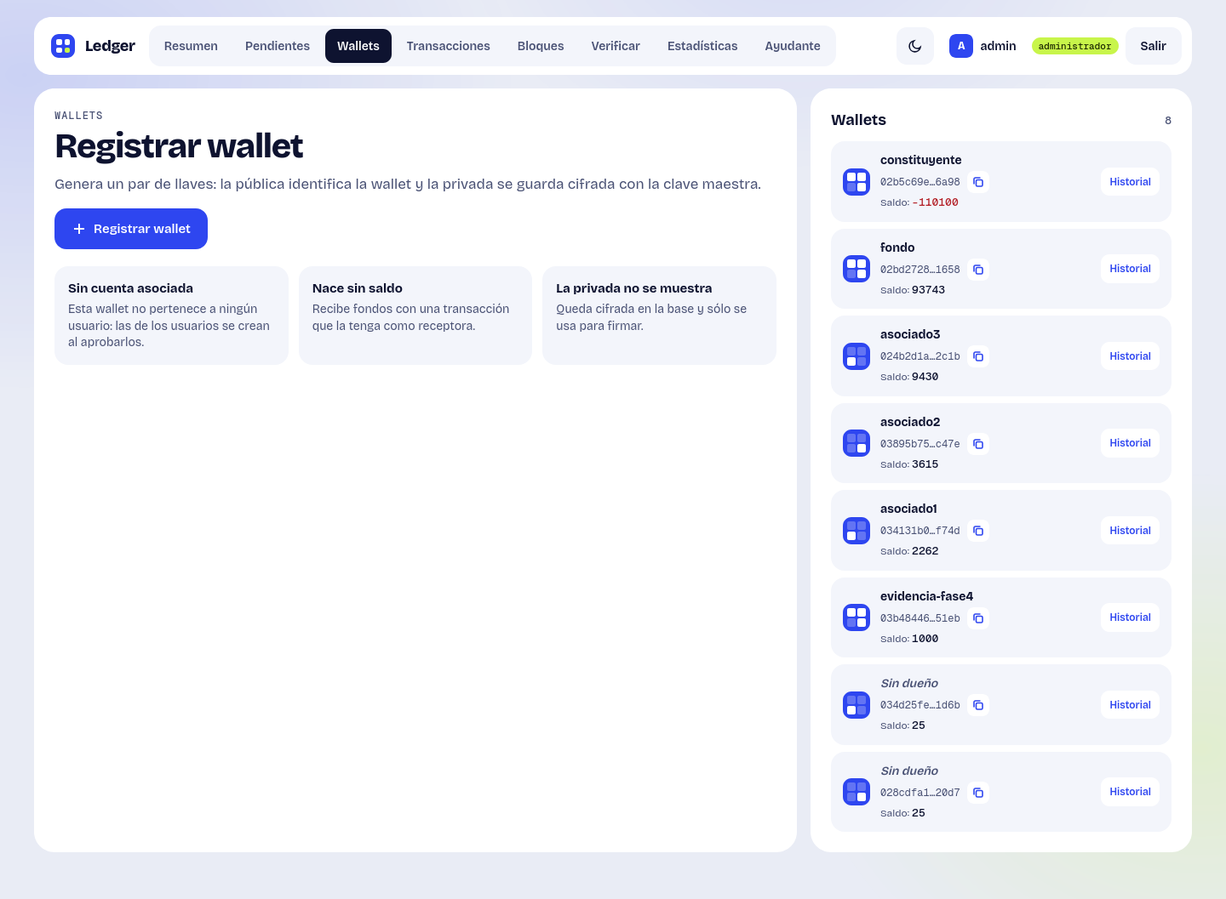
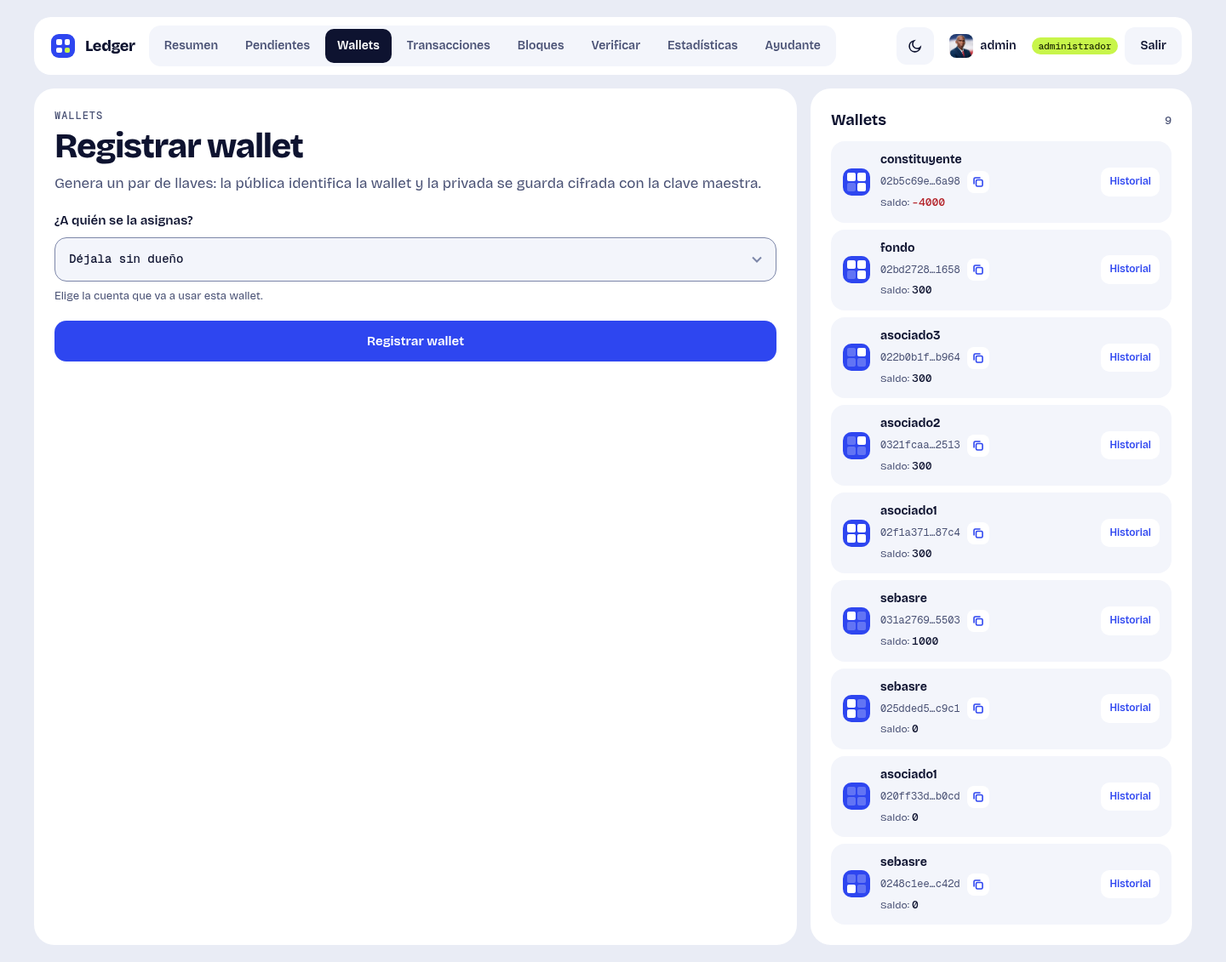
docs: capturas de la auditoría, el registro con dueño y las varias wallets

diff --git a/docs/entrega-final.md b/docs/entrega-final.md
@@ -547,16 +547,16 @@ volumen).
 
 La ruta es relativa a este documento. Las capturas y los textos marcados con «4 de
 noviembre» son anteriores a la wallet con dueño, a la auditoría/sello/reparación y al
-perfil; las marcadas «19 de noviembre» son frescas. En total son 23 capturas: 21 de
+perfil; las marcadas «19 de noviembre» son frescas. En total son 28 capturas: 26 de
 interfaz y 2 de terminal.
 
-> **Nota de alcance sobre las capturas nuevas.** Las capturas 11 y 23 del ayudante ya se
-> regeneraron el 19 de noviembre y muestran respuestas reales en modo guía local. Las
-> demás capturas del 4 de noviembre no muestran el panel de auditoría, el sello de
-> vigilancia ni las reparaciones, el perfil, ni la elección entre varias wallets. Esa
-> evidencia es documental y de pruebas: la auditoría y la reparación están cubiertas por
-> el recorrido y por las pruebas, y el inventario conserva las capturas históricas como
-> evidencia de la interfaz. No se deben presentar como si mostraran esas funciones.
+> **Nota de alcance sobre las capturas nuevas.** Las capturas 03, 06, 11 y 23 se
+> regeneraron el 19 de noviembre y las 24 a 28 son nuevas: muestran la asignación de
+> dueño al registrar una wallet, las varias wallets de una cuenta, la auditoría con el
+> sello coincidente y la auditoría detectando un sello no coincidente. Las capturas del
+> 4 de noviembre que siguen —01, 02, 04, 05, 07 a 10 y 12 a 22— no muestran esas
+> funciones: el inventario las conserva como evidencia histórica de la interfaz y no se
+> deben presentar como si mostraran lo agregado después de esa fecha.
 
 ### 5.1 Pruebas y resultados
 
@@ -572,24 +572,24 @@ interfaz y 2 de terminal.
 
 ### 5.2 Capturas de la interfaz
 
-Son 23 capturas: 21 de interfaz y 2 de terminal. Las capturas 11 y 23 son del 19 de
-noviembre de 2026; el resto, del 4 de noviembre. El listado completo con el nombre de
-cada archivo está en [evidencias/capturas/](evidencias/capturas/).
+Son 28 capturas: 26 de interfaz y 2 de terminal (20 y 21). Las capturas 03, 06, 11, 23 y
+24 a 28 son del 19 de noviembre de 2026; el resto, del 4 de noviembre. El listado
+completo con el nombre de cada archivo está en
+[evidencias/capturas/](evidencias/capturas/).
 
 | Archivo | Qué demuestra |
 | --- | --- |
 | [01-ingreso.png](evidencias/capturas/01-ingreso.png) | Pantalla de ingreso con el tema de la aplicación |
 | [02-portada-admin.png](evidencias/capturas/02-portada-admin.png) | Portada del administrador: conteos, cadena, últimas transacciones y panel de wallets con saldos |
-| [03-wallets.png](evidencias/capturas/03-wallets.png) | Gestión de wallets con la clave pública y el botón de copiar |
+| [03-wallets.png](evidencias/capturas/03-wallets.png) | Registro de wallet con el selector «¿A quién se la asignas?» y el panel de wallets con sus saldos (19 de noviembre; REQ-46) |
 | [04-transacciones-rechazo.png](evidencias/capturas/04-transacciones-rechazo.png) | Formulario de transacción con un monto inválido y el motivo del rechazo |
 | [05-bloques.png](evidencias/capturas/05-bloques.png) | Cierre de bloque con el pool en espera |
-| [06-verificar.png](evidencias/capturas/06-verificar.png) | Dictamen de integridad de la cadena (4 de noviembre; no muestra el panel de auditoría, sello ni reparaciones) |
+| [06-verificar.png](evidencias/capturas/06-verificar.png) | Dictamen de cadena válida con el panel de auditoría del estado, el sello de vigilancia «Coincide», cero hallazgos y las reparaciones (19 de noviembre) |
 | [07-pendientes.png](evidencias/capturas/07-pendientes.png) | Cola de aprobación con una cuenta pendiente y su fecha |
 | [08-tablero-comun.png](evidencias/capturas/08-tablero-comun.png) | Tablero del usuario común: saldo y formulario de envío |
 | [09-estadisticas-comun.png](evidencias/capturas/09-estadisticas-comun.png) | Estadísticas propias con la tarjeta «Proyección del próximo mes» |
 | [10-estadisticas-admin.png](evidencias/capturas/10-estadisticas-admin.png) | Estadísticas desde el administrador, con selector de usuario y proyección |
 | [11-asistente.png](evidencias/capturas/11-asistente.png) | Pestaña del ayudante con «Lo que pasa ahora», preguntas sugeridas y una respuesta de la guía local (19 de noviembre) |
-| [23-asistente-conversacion.png](evidencias/capturas/23-asistente-conversacion.png) | Conversación del ayudante con pregunta escrita a mano y respuesta, en modo guía local (19 de noviembre) |
 | [12-tema-oscuro.png](evidencias/capturas/12-tema-oscuro.png) | La misma pantalla de estadísticas en tema oscuro |
 | [13-error-503.png](evidencias/capturas/13-error-503.png) | Página de error cuando la base no responde |
 | [14-flujo-wallet-creada.png](evidencias/capturas/14-flujo-wallet-creada.png) | Wallet recién registrada con identificador y clave pública |
@@ -601,6 +601,12 @@ cada archivo está en [evidencias/capturas/](evidencias/capturas/).
 | [20-consulta-psql.png](evidencias/capturas/20-consulta-psql.png) | Terminal con `psql -f db/consultas.sql`: conteos, saldos y cadena eslabonada |
 | [21-registro-en-bd.png](evidencias/capturas/21-registro-en-bd.png) | `SELECT` de una cuenta registrada con su estado y fecha |
 | [22-mis-contactos.png](evidencias/capturas/22-mis-contactos.png) | Agenda del usuario común con sus contactos y el movimiento de cada uno |
+| [23-asistente-conversacion.png](evidencias/capturas/23-asistente-conversacion.png) | Conversación del ayudante con pregunta escrita a mano y respuesta, en modo guía local (19 de noviembre) |
+| [24-registro-wallet-con-dueno.png](evidencias/capturas/24-registro-wallet-con-dueno.png) | Registro de wallet con una cuenta común elegida en el selector de dueño, antes de enviar el formulario (REQ-46) |
+| [25-wallet-asignada-a-cliente.png](evidencias/capturas/25-wallet-asignada-a-cliente.png) | Confirmación de la wallet registrada a nombre de `asociado1`, con dueño, identificador, clave pública y saldo 0 (REQ-46) |
+| [26-multiwallets-tablero.png](evidencias/capturas/26-multiwallets-tablero.png) | Tablero del usuario común con el selector «Tus wallets» y el botón «Elegir» para operar con una de sus wallets (REQ-47) |
+| [27-multiwallets-perfil.png](evidencias/capturas/27-multiwallets-perfil.png) | Perfil de `asociado1` con las tres wallets de la cuenta listadas junto a sus demás datos (REQ-47) |
+| [28-auditoria-detecta-sello-no-coincide.png](evidencias/capturas/28-auditoria-detecta-sello-no-coincide.png) | Auditoría con la cadena válida pero el sello de vigilancia «No coincide»: hallazgo crítico y las reparaciones «Reagrupar el pool» y «Fijar el sello» (19 de noviembre) |
 
 ### 5.3 Figuras y documentos de soporte
 
@@ -613,7 +619,7 @@ cada archivo está en [evidencias/capturas/](evidencias/capturas/).
 | [informe.md](pentesting/informe.md) / [informe.pdf](pentesting/informe.pdf) | Informe de pentesting con metodología, cuatro hallazgos, CVSS, evidencia y remediación; el PDF tiene 18 páginas e incluye la nota de alcance temporal (1.4) |
 | [matriz-trazabilidad.md](pentesting/matriz-trazabilidad.md) | Trazabilidad entre requerimientos, pruebas funcionales y categorías de OWASP |
 | [triaje-de-herramientas.md](pentesting/triaje-de-herramientas.md) | Triaje de las herramientas del pentest y sus resultados |
-| [evidencias-fase4.md](evidencias-fase4.md) | Evidencias y checklist de la Fase 4, alineadas con la corrida fresca del 19 de noviembre y con las 23 capturas |
+| [evidencias-fase4.md](evidencias-fase4.md) | Evidencias y checklist de la Fase 4, alineadas con la corrida fresca del 19 de noviembre y con las 28 capturas |
 | [presupuesto-y-cronograma.md](presupuesto-y-cronograma.md) | Presupuesto y cronograma; las actividades 1 a 30 cerradas y la nota sobre la grabación y el acta pendientes |
 | [recorrido-de-casos-de-uso.md](recorrido-de-casos-de-uso.md) | Camino real de cada caso de uso: ruta, método del dominio, tabla y consulta, con la auditoría y la reparación |
 | [proceso-y-alcance.md](proceso-y-alcance.md) | Etapas de construcción, lo que no entra y riesgos conocidos |
@@ -634,7 +640,7 @@ cada archivo está en [evidencias/capturas/](evidencias/capturas/).
 La ronda de alineación documental dejó estos documentos con el estado real del
 prototipo. Los recuentos vigentes son: 47 requerimientos (REQ-01 a REQ-47), 5 casos de
 uso, 525 pruebas aprobadas y 1 omitida, 158 pruebas unitarias sin base, 68 archivos de
-prueba, 23 capturas, 4 hallazgos de pentest y 18 páginas del informe en PDF.
+prueba, 28 capturas, 4 hallazgos de pentest y 18 páginas del informe en PDF.
 
 | Documento | Qué contiene y qué se actualizó |
 | --- | --- |
@@ -642,7 +648,7 @@ prueba, 23 capturas, 4 hallazgos de pentest y 18 páginas del informe en PDF.
 | [arquitectura-y-decisiones.md](arquitectura-y-decisiones.md) | Capas actualizadas, modelo de datos con `wallets.owner_id`, decisiones de la auditoría y del sello, y declaración de prototipo local sin despliegue |
 | [proceso-y-alcance.md](proceso-y-alcance.md) | Etapas 1 a 13, los 47 requerimientos, la evidencia fresca y los riesgos; declara que el despliegue público no entra |
 | [recorrido-de-casos-de-uso.md](recorrido-de-casos-de-uso.md) | Recorrido de los cinco casos de uso y de las funciones agregadas, con la auditoría, el sello, la reparación y las capturas |
-| [evidencias-fase4.md](evidencias-fase4.md) | Evidencias de la Fase 4 actualizadas con la corrida fresca, el pentest y las 23 capturas; la rama de la entrega es `main` |
+| [evidencias-fase4.md](evidencias-fase4.md) | Evidencias de la Fase 4 actualizadas con la corrida fresca, el pentest y las 28 capturas; la rama de la entrega es `main` |
 | [presupuesto-y-cronograma.md](presupuesto-y-cronograma.md) | Actividades 1 a 30 cerradas y nota de que la grabación y el acta de la socialización todavía no se anexan |
 | [pentesting/informe.md](pentesting/informe.md) y [pentesting/informe.pdf](pentesting/informe.pdf) | Informe de pentest actualizado con la nota de alcance temporal (1.4); el PDF regenerado tiene 18 páginas |
 | [pentesting/matriz-trazabilidad.md](pentesting/matriz-trazabilidad.md) | Trazabilidad de los requerimientos de cuentas y del ledger —REQ-30 a REQ-47 con su prueba funcional— y de las categorías de OWASP WSTG |
@@ -665,7 +671,7 @@ entorno ya levantado.
 | Informe de pentest actualizado y PDF regenerado | Hecho | [informe.md](pentesting/informe.md) y [informe.pdf](pentesting/informe.pdf), 18 páginas, con la nota de alcance temporal (1.4) |
 | Capturas del ayudante regeneradas y descritas | Hecho | [11-asistente.png](evidencias/capturas/11-asistente.png) y [23-asistente-conversacion.png](evidencias/capturas/23-asistente-conversacion.png), del 19 de noviembre, en modo guía local; versionadas en `a1327b1` |
 | Evidencia fresca de la suite | Hecho | [pruebas-finales-2026-11-19.txt](evidencias/pruebas-finales-2026-11-19.txt), versionada en `a1327b1` (local, todavía sin subir al remoto) |
-| Cifras y recuentos corregidos | Hecho | 525 pruebas aprobadas y 1 omitida, 158 unitarias sin base, 47 requerimientos y 23 capturas en los documentos de la sección 5.5 |
+| Cifras y recuentos corregidos | Hecho | 525 pruebas aprobadas y 1 omitida, 158 unitarias sin base, 47 requerimientos y 28 capturas en los documentos de la sección 5.5 |
 | Registro de la socialización y la demostración en vivo | Hecho | [evidencias/socializacion/README.md](evidencias/socializacion/README.md) |
 
 ### 6.2 Pendientes antes de entregar

diff --git a/README.md b/README.md
@@ -920,21 +920,21 @@ con la clave nueva. El arranque solo siembra cuando la tabla de wallets está va
 
 ## Documentos y evidencias
 
-| Documento                                                                                        | Qué contiene                                                                                                                                                  |
-| ------------------------------------------------------------------------------------------------ | ------------------------------------------------------------------------------------------------------------------------------------------------------------- |
-| [docs/entrega-final.md](docs/entrega-final.md)                                                   | La consolidación para la entrega: acceso, ficha de la IA, guion de la sustentación, inventario de evidencias y pendientes                                     |
-| [docs/evidencias-fase4.md](docs/evidencias-fase4.md)                                             | Las evidencias de la Fase 4: diseño, navegabilidad e integración con la base, con las capturas de esa etapa                                                   |
-| [docs/evidencias/pruebas-finales-2026-11-19.txt](docs/evidencias/pruebas-finales-2026-11-19.txt) | La salida literal de ruff y de las tres corridas de pytest del 19 de noviembre de 2026 (Python 3.14.9 y el piso 3.11), con el entorno y el conteo por archivo |
-| [docs/evidencias/capturas/](docs/evidencias/capturas/)                                           | Las 23 capturas de la aplicación: 21 de interfaz y 2 de terminal; la 11 y la 23 muestran el ayudante en modo guía local                                       |
-| [docs/pentesting/informe.md](docs/pentesting/informe.md)                                         | El informe de pentesting con los cuatro hallazgos, su remediación propuesta y el procedimiento de retest                                                      |
-| [docs/pentesting/informe.pdf](docs/pentesting/informe.pdf)                                       | El mismo informe en PDF, para adjuntar a la entrega                                                                                                           |
-| [docs/pentesting/matriz-trazabilidad.md](docs/pentesting/matriz-trazabilidad.md)                 | La trazabilidad de cada requerimiento y cada categoría de WSTG con su prueba, su caso de Kiwi y su hallazgo                                                   |
-| [docs/red-neuronal.md](docs/red-neuronal.md)                                                     | El apartado de la red neuronal para el documento maestro, con el dataset y las métricas del entrenamiento                                                     |
-| [docs/recorrido-de-casos-de-uso.md](docs/recorrido-de-casos-de-uso.md)                           | El camino real de cada caso de uso: ruta, método del dominio, tabla y consulta                                                                                |
-| [docs/arquitectura-y-decisiones.md](docs/arquitectura-y-decisiones.md)                           | El mapa de conjunto y las decisiones de diseño que el eje no fija                                                                                             |
-| [docs/proceso-y-alcance.md](docs/proceso-y-alcance.md)                                           | El recorrido de la construcción, lo entregado en cada etapa y lo que queda afuera                                                                             |
-| [docs/sistema-de-diseno.md](docs/sistema-de-diseno.md)                                           | El sistema de diseño de la interfaz y sus tokens                                                                                                              |
-| [docs/presupuesto-y-cronograma.md](docs/presupuesto-y-cronograma.md)                             | El presupuesto del proyecto y el cronograma de trabajo                                                                                                        |
+| Documento                                                                                        | Qué contiene                                                                                                                                                                                                                                                                                                    |
+| ------------------------------------------------------------------------------------------------ | --------------------------------------------------------------------------------------------------------------------------------------------------------------------------------------------------------------------------------------------------------------------------------------------------------------- |
+| [docs/entrega-final.md](docs/entrega-final.md)                                                   | La consolidación para la entrega: acceso, ficha de la IA, guion de la sustentación, inventario de evidencias y pendientes                                                                                                                                                                                       |
+| [docs/evidencias-fase4.md](docs/evidencias-fase4.md)                                             | Las evidencias de la Fase 4: diseño, navegabilidad e integración con la base, con las capturas de esa etapa                                                                                                                                                                                                     |
+| [docs/evidencias/pruebas-finales-2026-11-19.txt](docs/evidencias/pruebas-finales-2026-11-19.txt) | La salida literal de ruff y de las tres corridas de pytest del 19 de noviembre de 2026 (Python 3.14.9 y el piso 3.11), con el entorno y el conteo por archivo                                                                                                                                                   |
+| [docs/evidencias/capturas/](docs/evidencias/capturas/)                                           | Las 28 capturas (26 de interfaz y 2 de terminal); 03, 06 y 24 a 28, del 19 de noviembre de 2026: 06 y 28, la auditoría con el sello coincidente y no coincidente; 24 y 25, el registro de wallet con asignación de dueño; 26 y 27, las varias wallets de una cuenta cliente; 11 y 23, el ayudante en guía local |
+| [docs/pentesting/informe.md](docs/pentesting/informe.md)                                         | El informe de pentesting con los cuatro hallazgos, su remediación propuesta y el procedimiento de retest                                                                                                                                                                                                        |
+| [docs/pentesting/informe.pdf](docs/pentesting/informe.pdf)                                       | El mismo informe en PDF, para adjuntar a la entrega                                                                                                                                                                                                                                                             |
+| [docs/pentesting/matriz-trazabilidad.md](docs/pentesting/matriz-trazabilidad.md)                 | La trazabilidad de cada requerimiento y cada categoría de WSTG con su prueba, su caso de Kiwi y su hallazgo                                                                                                                                                                                                     |
+| [docs/red-neuronal.md](docs/red-neuronal.md)                                                     | El apartado de la red neuronal para el documento maestro, con el dataset y las métricas del entrenamiento                                                                                                                                                                                                       |
+| [docs/recorrido-de-casos-de-uso.md](docs/recorrido-de-casos-de-uso.md)                           | El camino real de cada caso de uso: ruta, método del dominio, tabla y consulta                                                                                                                                                                                                                                  |
+| [docs/arquitectura-y-decisiones.md](docs/arquitectura-y-decisiones.md)                           | El mapa de conjunto y las decisiones de diseño que el eje no fija                                                                                                                                                                                                                                               |
+| [docs/proceso-y-alcance.md](docs/proceso-y-alcance.md)                                           | El recorrido de la construcción, lo entregado en cada etapa y lo que queda afuera                                                                                                                                                                                                                               |
+| [docs/sistema-de-diseno.md](docs/sistema-de-diseno.md)                                           | El sistema de diseño de la interfaz y sus tokens                                                                                                                                                                                                                                                                |
+| [docs/presupuesto-y-cronograma.md](docs/presupuesto-y-cronograma.md)                             | El presupuesto del proyecto y el cronograma de trabajo                                                                                                                                                                                                                                                          |
 
 Las capturas de los flujos principales y la evidencia fresca de la suite se enlazan
 desde las secciones de arriba: «El ayudante y la IA» lleva a la 11 y a la 23, y «Qué

diff --git a/docs/evidencias-fase4.md b/docs/evidencias-fase4.md
@@ -99,25 +99,29 @@ el encabezado de `src/bootstrap.py` y en el paso 4 del README.
 ## 3. Capturas de pantalla
 
 Están en `docs/evidencias/capturas/` y son la aplicación de este repositorio
-funcionando contra PostgreSQL, no un diseño aparte. Las veintiuna de la interfaz se
+funcionando contra PostgreSQL, no un diseño aparte. Las veintiséis de la interfaz se
 tomaron con un navegador sin interfaz sobre las páginas que sirve la propia aplicación,
 con las animaciones de entrada detenidas para que se vea el estado final; las dos de
 terminal son capturas de pantalla de una sesión real de `psql` contra la base de la
-aplicación. Las veintitrés están hechas.
+aplicación. Las veintiocho están hechas.
 
 Las dos capturas del ayudante (`11` y `23`) se tomaron el 19 de noviembre de 2026 con
 la cuenta `asociado1` y el ayudante en modo guía local, sin proveedor de IA configurado.
 Por eso la respuesta lleva el sello «Guía rápida» y no se ve el aviso de privacidad: la
 plantilla sólo lo pinta cuando hay un servicio externo configurado.
 
+Las capturas `03`, `06` y `24` a `28` se tomaron el 19 de noviembre de 2026 con la
+interfaz de la entrega: el registro de wallet con dueño, la auditoría de la cadena y las
+varias wallets de una cuenta común.
+
 | Archivo | Qué muestra | Estado |
 | --- | --- | --- |
 | `01-ingreso.png` | La pantalla de ingreso con el tema de la aplicación | Hecha |
 | `02-portada-admin.png` | Portada del administrador: conteos, cadena, últimas transacciones y panel de wallets con saldos | Hecha |
-| `03-wallets.png` | La gestión de wallets con la clave pública y el botón de copiar | Hecha |
+| `03-wallets.png` | El registro de wallet con el selector de dueño «¿A quién se la asignas?» y el panel de wallets con el dueño y el saldo de cada una | Hecha |
 | `04-transacciones-rechazo.png` | El formulario de transacción con un monto inválido y el mensaje que explica el rechazo | Hecha |
 | `05-bloques.png` | El cierre de bloque con el pool en espera | Hecha |
-| `06-verificar.png` | El dictamen de integridad de la cadena | Hecha |
+| `06-verificar.png` | El dictamen de integridad de la cadena, la auditoría del estado con el sello de vigilancia coincidente y sin hallazgos, el bloque de reparaciones y la tabla de bloques y los límites | Hecha |
 | `07-pendientes.png` | La cola de aprobación con una cuenta pendiente y su fecha de registro | Hecha |
 | `08-tablero-comun.png` | El tablero del usuario común: saldo y envío | Hecha |
 | `09-estadisticas-comun.png` | Las estadísticas propias: filtros, cifras, gráficas y la tarjeta de proyección del próximo mes | Hecha |
@@ -135,6 +139,11 @@ plantilla sólo lo pinta cuando hay un servicio externo configurado.
 | `21-registro-en-bd.png` | `SELECT` de la cuenta `evidencia-fase4` con su estado y su fecha de registro | Hecha |
 | `22-mis-contactos.png` | La agenda del usuario común con sus contactos y el movimiento de cada uno | Hecha |
 | `23-asistente-conversacion.png` | Una conversación del ayudante: la pregunta escrita a mano sobre un envío «En espera» y su respuesta de la guía rápida | Hecha |
+| `24-registro-wallet-con-dueno.png` | El formulario de registro de wallet con `asociado1` elegido en el selector de dueño, antes de enviarlo | Hecha |
+| `25-wallet-asignada-a-cliente.png` | La ficha de la wallet recién registrada a nombre de `asociado1`, con la fila Dueño, el identificador y la clave pública | Hecha |
+| `26-multiwallets-tablero.png` | El tablero de `asociado1` con el selector «Tus wallets», que sólo aparece con más de una, y el saldo de la wallet elegida | Hecha |
+| `27-multiwallets-perfil.png` | El perfil de `asociado1` con la ficha «Tus wallets», que lista sus tres wallets | Hecha |
+| `28-auditoria-detecta-sello-no-coincide.png` | La auditoría detectando el sello de vigilancia no coincidente, con su hallazgo crítico y las reparaciones «Reagrupar el pool» y «Fijar el sello» | Hecha |
 
 ## 4. Dificultades técnicas encontradas
 
@@ -309,9 +318,10 @@ Para reproducirlas sin tocar los datos de la aplicación hace falta una base apa
       (`docs/pentesting/informe.md`, `docs/pentesting/informe.pdf`).
 - [x] Documento de entrega final con el inventario y los pendientes declarados
       (`docs/entrega-final.md`).
-- [x] Capturas de la aplicación en `docs/evidencias/capturas/` (23 de 23, incluidas
+- [x] Capturas de la aplicación en `docs/evidencias/capturas/` (28 de 28, incluidas
       las del ayudante `11-asistente.png` y `23-asistente-conversacion.png` en modo
-      guía local).
+      guía local, las de wallet con dueño y varias wallets `24` a `27`, y la de la
+      auditoría detectando el sello no coincidente `28-auditoria-detecta-sello-no-coincide.png`).
 
 Al momento de esta actualización, el `main` local está por delante de `origin/main`;
 el envío al remoto y la comprobación con `git ls-remote` están declarados como

diff --git a/docs/recorrido-de-casos-de-uso.md b/docs/recorrido-de-casos-de-uso.md
@@ -118,9 +118,12 @@ la pública chocara con `uq_wallets_public_key`, el error del motor sube sin tra
 con `nombres_por_wallet()`, que lee la base una vez por petición. La ficha lleva
 Dueño, Identificador, Clave pública —con el valor completo en el `title` y el botón de
 copiar— y Saldo disponible, y dos enlaces: «Ver su historial» y «Proponer una
-transacción». La captura `14-flujo-wallet-creada.png` es del 4 de noviembre y muestra
-la ficha anterior, cuando el formulario todavía no pedía dueño y la wallet recién
-creada quedaba «Sin dueño»; el formulario de hoy es el `select` de dueño descrito.
+transacción». La captura `24-registro-wallet-con-dueno.png` muestra el formulario con
+«¿A quién se la asignas?» y la cuenta `asociado1` elegida, y
+`25-wallet-asignada-a-cliente.png` la ficha resultante, «Wallet registrada a nombre de
+asociado1.», con el dueño en su campo. La captura `14-flujo-wallet-creada.png` es del
+4 de noviembre y muestra la ficha anterior, cuando el formulario todavía no pedía dueño
+y la wallet recién creada quedaba «Sin dueño».
 
 **Varias wallets por cuenta (REQ-47).** Una cuenta común aprobada puede tener varias
 wallets: la primera la crea la aprobación de la cuenta (REQ-33) y las demás se
@@ -128,7 +131,9 @@ registran por esta ruta. La principal es la más antigua. `GET /perfil` las list
 y, cuando hay más de una, el tablero pinta el selector «Tus wallets» con el saldo de
 cada una; `POST /mi-wallet` valida que la elegida pertenezca a la sesión y la guarda
 en `wallet_elegida`, y el envío por nombre de usuario apunta siempre a la principal del
-destinatario.
+destinatario. La captura `26-multiwallets-tablero.png` muestra el tablero de `asociado1`
+con el selector «Tus wallets» y el saldo de la wallet elegida, y
+`27-multiwallets-perfil.png` el perfil con los tres códigos de wallet de la cuenta.
 
 **Qué prueba lo demuestra.** `tests/unit/test_req_01_wallet.py`
 (`test_req_01_la_privada_no_esta_en_claro_en_la_wallet`,
@@ -429,11 +434,15 @@ y, para la auditoría y las reparaciones, `tests/unit/test_auditoria.py`,
 `tests/integration/test_verificar_auditoria.py` (el panel, la confirmación obligatoria,
 la acción desconocida, el reencadenado, el aislamiento, el reagrupado y el sellado).
 
-**Evidencia visual.** Las capturas `17-flujo-cadena-verificada.png`,
+**Evidencia visual.** La captura `06-verificar.png` muestra el panel completo: «La
+cadena es válida», las cifras de la auditoría, el sello de vigilancia en «Coincide»,
+cero hallazgos, la reparación sugerida y la tabla de bloques.
+`28-auditoria-detecta-sello-no-coincide.png` muestra el mismo panel con el sello en
+«No coincide» y un hallazgo crítico («El sello no coincide con la cadena») junto con la
+reparación de fijarlo. Las capturas `17-flujo-cadena-verificada.png`,
 `18-alteracion-detectada.png` y `19-alteracion-revertida.png` son del 4 de noviembre y
-muestran el dictamen y el ida y vuelta de la alteración, pero corresponden a la versión
-anterior de la página: no incluyen el panel de auditoría ni el sello. Esa captura
-sigue pendiente y así queda declarado en `docs/entrega-final.md` (P1-1).
+muestran el dictamen y el ida y vuelta de la alteración en la versión anterior de la
+página, sin panel de auditoría.
 
 ## CU-05: consultar el historial de una wallet
 
@@ -515,9 +524,10 @@ Estas funciones cubren del REQ-40 al REQ-45 del diseño de perfil, contactos, fo
 ayudante, y la wallet con dueño añade el REQ-46 y el REQ-47. La captura
 `22-mis-contactos.png` muestra la agenda con el número de movimientos y la última fecha de
 cada contacto; `11-asistente.png` y `23-asistente-conversacion.png` muestran el ayudante en
-modo guía local, sin proveedor de IA configurado. El perfil, el cambio de contraseña y la
-elección entre varias wallets no tienen captura todavía (pendiente P1-1 de
-`docs/entrega-final.md`).
+modo guía local, sin proveedor de IA configurado. `26-multiwallets-tablero.png` y
+`27-multiwallets-perfil.png` muestran la elección entre varias wallets y el perfil con
+todas ellas; el cambio de contraseña aparece en su formulario dentro de
+`27-multiwallets-perfil.png`, aunque no hay captura del flujo de aprobación.
 
 **Qué prueba lo demuestra.** `tests/integration/test_perfil.py`, `test_foto.py`,
 `test_contactos.py`, `test_idioma.py` y `test_asistente.py`; el diseño con sus

diff --git a/docs/evidencias/socializacion/README.md b/docs/evidencias/socializacion/README.md
@@ -131,13 +131,17 @@ README y en el `.env` local, respectivamente; no se escriben en este archivo.
 
 ### 4.1 Evidencias visuales del prototipo
 
+El repositorio cuenta con 28 capturas: 26 de interfaz y 2 de terminal. Las que siguen
+respaldan la demostración; las nuevas del 19 de noviembre muestran las funciones que se
+presentaron.
+
 | Evidencia | Qué muestra |
 | --- | --- |
 | [01-ingreso.png](../capturas/01-ingreso.png) | Pantalla de ingreso |
 | [02-portada-admin.png](../capturas/02-portada-admin.png) | Portada del administrador con conteos, cadena y panel de wallets |
-| [03-wallets.png](../capturas/03-wallets.png) | Registro y clave pública de una wallet |
+| [03-wallets.png](../capturas/03-wallets.png) | Registro de wallet con el selector de dueño y el panel de wallets con saldos (19 de noviembre) |
 | [05-bloques.png](../capturas/05-bloques.png) | Cierre de bloque con el pool en espera |
-| [06-verificar.png](../capturas/06-verificar.png) | Dictamen de integridad (captura del 4 de noviembre; anterior al panel de auditoría) |
+| [06-verificar.png](../capturas/06-verificar.png) | Dictamen de cadena válida con la auditoría del estado y el sello de vigilancia «Coincide» (19 de noviembre) |
 | [07-pendientes.png](../capturas/07-pendientes.png) | Cola de aprobación del administrador |
 | [08-tablero-comun.png](../capturas/08-tablero-comun.png) | Tablero del usuario común |
 | [14-flujo-wallet-creada.png](../capturas/14-flujo-wallet-creada.png) | Wallet recién registrada con su identificador |
@@ -148,6 +152,11 @@ README y en el `.env` local, respectivamente; no se escriben en este archivo.
 | [19-alteracion-revertida.png](../capturas/19-alteracion-revertida.png) | Vuelta a la cadena válida |
 | [20-consulta-psql.png](../capturas/20-consulta-psql.png) | Consulta de evidencia contra la base |
 | [22-mis-contactos.png](../capturas/22-mis-contactos.png) | Agenda de contactos del usuario común |
+| [24-registro-wallet-con-dueno.png](../capturas/24-registro-wallet-con-dueno.png) | Registro de wallet con una cuenta elegida en el selector de dueño (REQ-46) |
+| [25-wallet-asignada-a-cliente.png](../capturas/25-wallet-asignada-a-cliente.png) | Confirmación de la wallet asignada a `asociado1`, con su dueño y saldo 0 (REQ-46) |
+| [26-multiwallets-tablero.png](../capturas/26-multiwallets-tablero.png) | Tablero del usuario común con el selector «Tus wallets» (REQ-47) |
+| [27-multiwallets-perfil.png](../capturas/27-multiwallets-perfil.png) | Perfil de la cuenta con sus tres wallets listadas (REQ-47) |
+| [28-auditoria-detecta-sello-no-coincide.png](../capturas/28-auditoria-detecta-sello-no-coincide.png) | Auditoría con la cadena válida y el sello de vigilancia no coincidente: hallazgo crítico y reparaciones disponibles |
 
 ### 4.2 Evidencias de las pruebas
 

diff --git a/docs/proceso-y-alcance.md b/docs/proceso-y-alcance.md
@@ -17,7 +17,7 @@ están las decisiones.
 | 6. Perfil, contactos, fotos e idioma | Perfil de la cuenta, foto, agenda de contactos, solicitud de cambio de contraseña e interfaz en español o inglés | `REQ-40` a `REQ-43`, cada uno con su prueba |
 | 7. El ayudante | Guía local que responde sin red y, con `ASISTENTE_API_KEY`, un modelo externo en sólo lectura | `REQ-44` y `REQ-45`: sólo consulta y no expone datos de otras cuentas |
 | 8. Interfaz | Sistema de diseño «Bloques», tema claro y oscuro, navegación por rol, mensajes de éxito y de error | Capturas de todas las pantallas y pruebas de navegación |
-| 9. Fase 4 | Estadísticas con filtros y gráficas, proyección del próximo mes con red neuronal, manejo del error de conexión y evidencias | 22 capturas en esa etapa (hoy son 23), pruebas de navegación, de conexión, de estadísticas y de la proyección |
+| 9. Fase 4 | Estadísticas con filtros y gráficas, proyección del próximo mes con red neuronal, manejo del error de conexión y evidencias | 22 capturas en esa etapa (hoy son 28), pruebas de navegación, de conexión, de estadísticas y de la proyección |
 | 10. Wallet con dueño y varias wallets | La propiedad pasa de `users` a `wallets.owner_id`; el registro pregunta el dueño y el tablero elige con qué wallet se opera | `REQ-46` y `REQ-47`, y la suite corrida sobre el esquema nuevo |
 | 11. Auditoría, sello y reparación | Auditoría completa del estado, sello de vigilancia externo, panel en `/verificar` y `POST /verificar/reparar` | Pruebas de auditoría, de sello, de reparación y de persistencia de la reparación |
 | 12. Pentest | OWASP WSTG v4.2 sobre las fases de PTES, en una instancia local aislada, con triaje e informe | [informe.md](pentesting/informe.md): cuatro hallazgos abiertos con remediación propuesta |
